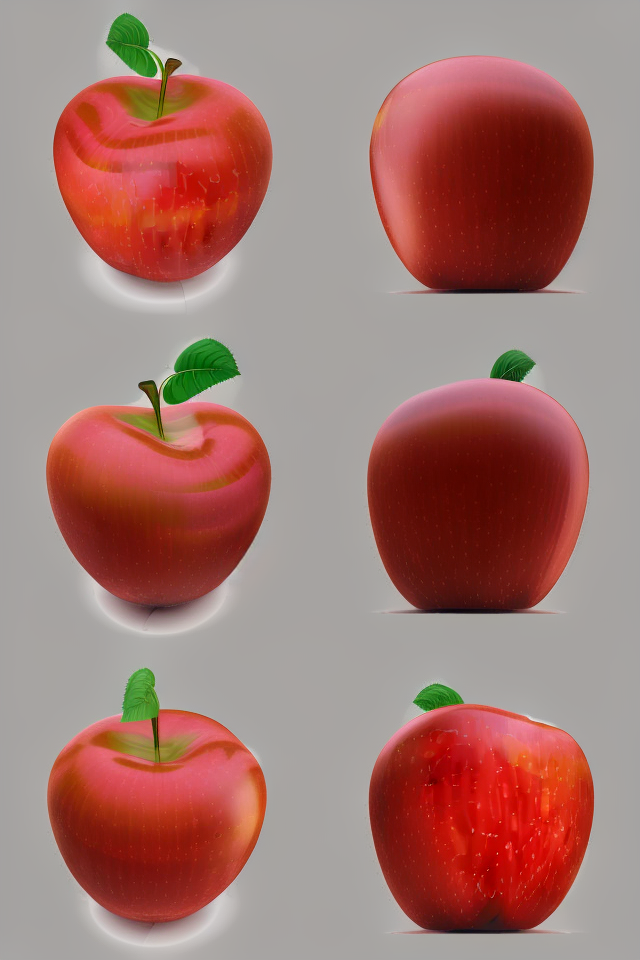
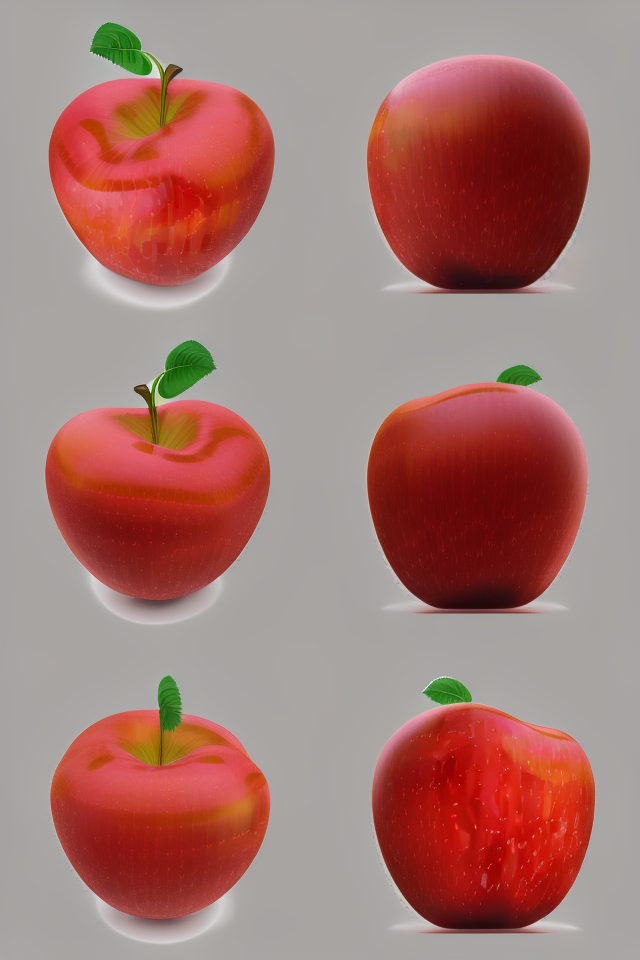
first step of mixing two pipelines

diff --git a/zero123plus-main/diffusers_support/pipeline_sd.py b/zero123plus-main/diffusers_support/pipeline_sd.py
@@ -5,13 +5,13 @@ import torch
 from packaging import version
 from transformers import CLIPImageProcessor, CLIPTextModel, CLIPTokenizer, CLIPVisionModelWithProjection
 
-from ...configuration_utils import FrozenDict
-from ...image_processor import PipelineImageInput, VaeImageProcessor
-from ...loaders import FromSingleFileMixin, IPAdapterMixin, LoraLoaderMixin, TextualInversionLoaderMixin
-from ...models import AutoencoderKL, ImageProjection, UNet2DConditionModel
-from ...models.lora import adjust_lora_scale_text_encoder
-from ...schedulers import KarrasDiffusionSchedulers
-from ...utils import (
+from diffusers.configuration_utils import FrozenDict
+from diffusers.image_processor import PipelineImageInput, VaeImageProcessor
+from diffusers.loaders import FromSingleFileMixin, IPAdapterMixin, LoraLoaderMixin, TextualInversionLoaderMixin
+from diffusers.models import AutoencoderKL, ImageProjection, UNet2DConditionModel
+from diffusers.models.lora import adjust_lora_scale_text_encoder
+from diffusers.schedulers import KarrasDiffusionSchedulers
+from diffusers.utils import (
     USE_PEFT_BACKEND,
     deprecate,
     logging,
@@ -19,10 +19,10 @@ from ...utils import (
     scale_lora_layers,
     unscale_lora_layers,
 )
-from ...utils.torch_utils import randn_tensor
-from ..pipeline_utils import DiffusionPipeline, StableDiffusionMixin
-from .pipeline_output import StableDiffusionPipelineOutput
-from .safety_checker import StableDiffusionSafetyChecker
+from diffusers.utils.torch_utils import randn_tensor
+from diffusers.pipelines.pipeline_utils import DiffusionPipeline, StableDiffusionMixin
+from diffusers.pipelines.stable_diffusion.pipeline_output import StableDiffusionPipelineOutput
+from diffusers.pipelines.stable_diffusion.safety_checker import StableDiffusionSafetyChecker
 
 
 logger = logging.get_logger(__name__)  # pylint: disable=invalid-name
@@ -882,6 +882,7 @@ class StableDiffusionPipeline(
             self.cross_attention_kwargs.get("scale", None) if self.cross_attention_kwargs is not None else None
         )
 
+        ## added this line ##
         prompt_embeds, negative_prompt_embeds = self.encode_prompt(
             prompt,
             device,

diff --git a/zero123plus-main/runner.py b/zero123plus-main/runner.py
@@ -2,16 +2,18 @@ import torch
 import requests
 from PIL import Image
 from diffusers import DiffusionPipeline, EulerAncestralDiscreteScheduler
+from diffusers import StableVideoDiffusionPipeline
 from diffusers_support.pipeline import Zero123PlusPipeline
 
 # Load the pipeline
-# pipeline = DiffusionPipeline.from_pretrained(
-#     "sudo-ai/zero123plus-v1.1", custom_pipeline="sudo-ai/zero123plus-pipeline",
-#     torch_dtype=torch.float16
-# )
 pipeline = Zero123PlusPipeline.from_pretrained(
     "sudo-ai/zero123plus-v1.1", torch_dtype=torch.float16
 )
+pipe_video = StableVideoDiffusionPipeline.from_pretrained(
+    "stabilityai/stable-video-diffusion-img2vid-xt", torch_dtype=torch.float16, variant="fp16"
+)
+pipeline.unet = pipe_video.unet
+del pipe_video
 # Feel free to tune the scheduler
 pipeline.scheduler = EulerAncestralDiscreteScheduler.from_config(
     pipeline.scheduler.config, timestep_spacing='trailing'

diff --git a/zero123plus-main/diffusers_support/pipeline.py b/zero123plus-main/diffusers_support/pipeline.py
@@ -263,7 +263,8 @@ class SuperNet(torch.nn.Module):
         self._register_state_dict_hook(map_to)
         self._register_load_state_dict_pre_hook(map_from, with_module=True)
 
-from .diffusers_support.pipeline_sd import StableDiffusionPipeline as SDPipeline
+
+from .pipeline_sd import StableDiffusionPipeline as SDPipeline
 # class Zero123PlusPipeline(diffusers.StableDiffusionPipeline):
 ## changed this line ##
 class Zero123PlusPipeline(SDPipeline):

diff --git a/pipeline_test.py b/pipeline_test.py
@@ -14,7 +14,7 @@ image = load_image("https://huggingface.co/datasets/huggingface/documentation-im
 image = Image.open("/localhome/aaa324/Generative Models/VideoPAPR/data/horese.jpg")
 image = load_image(image)
 image = image.resize((1024, 576))
-print(pipe.unet)
+
 generator = torch.manual_seed(42)
 frames = pipe(image, decode_chunk_size=8, generator=generator).frames[0]
 
